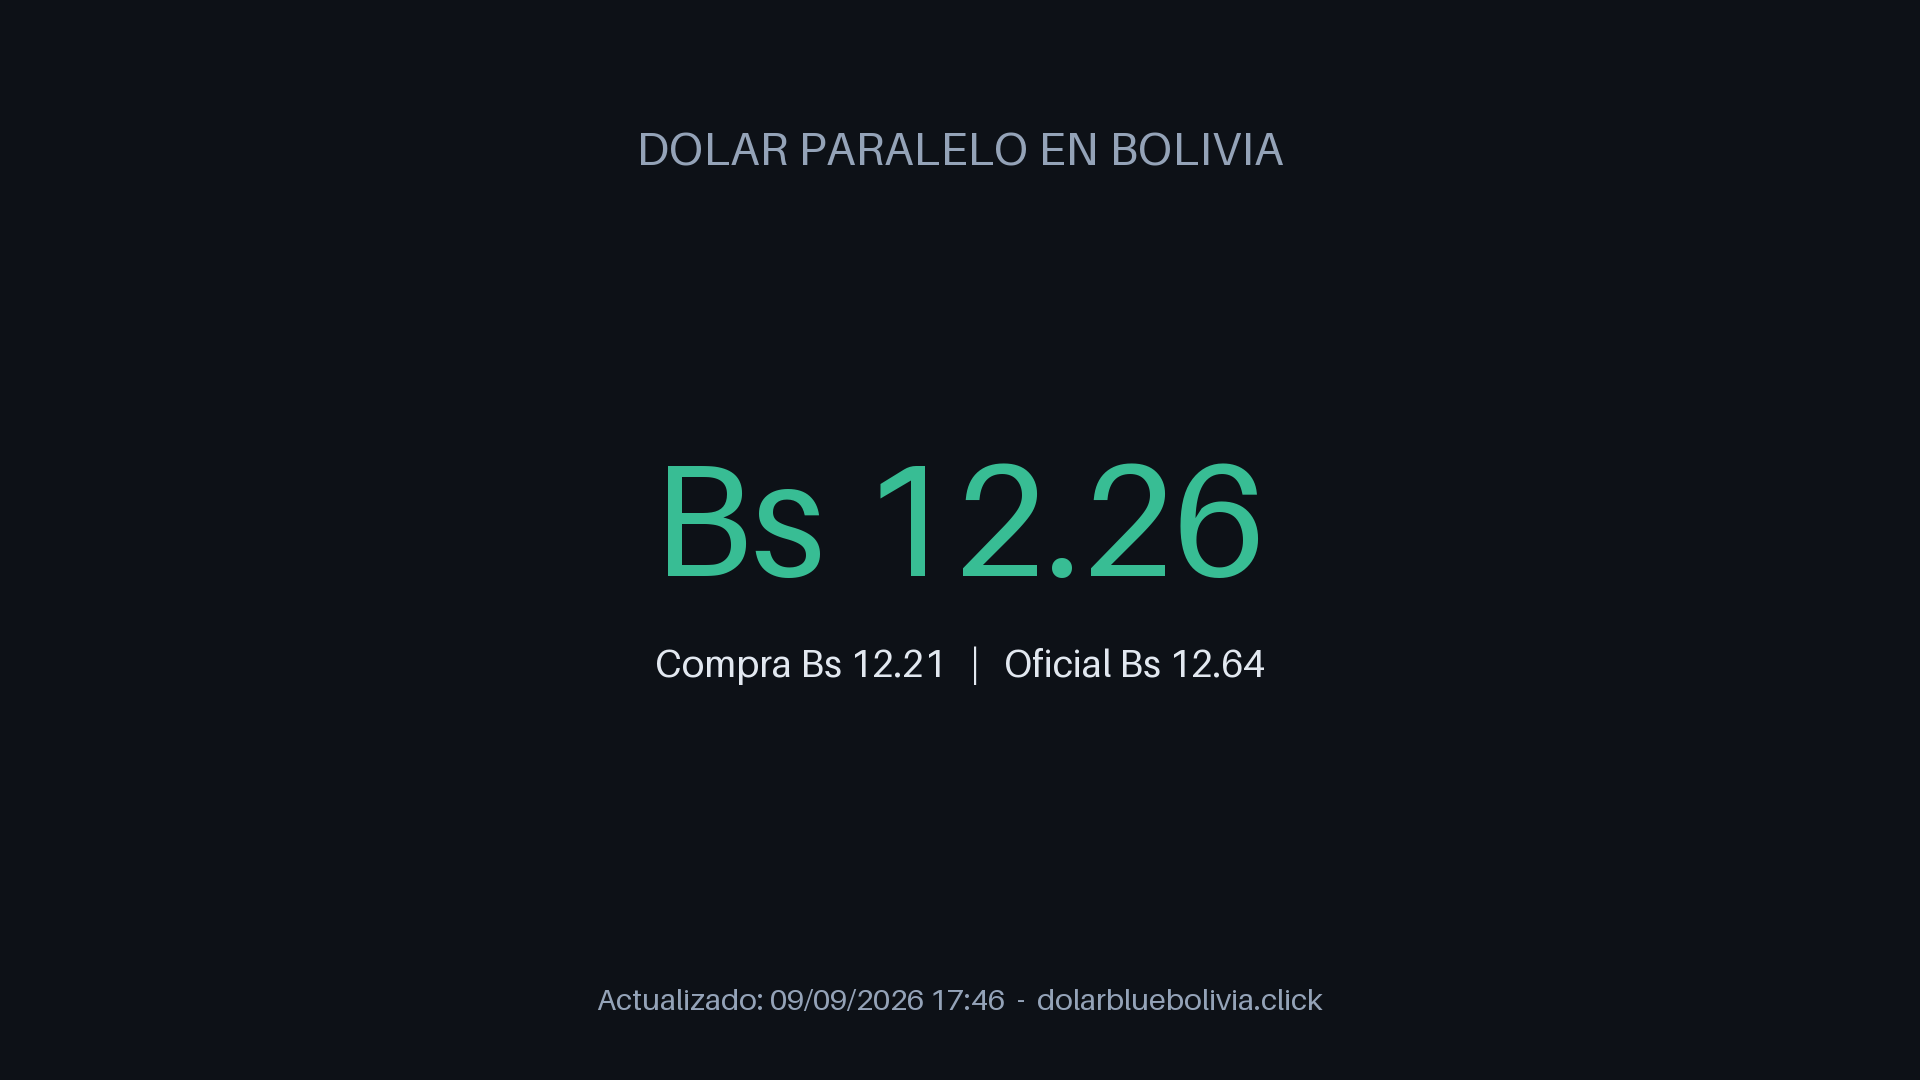
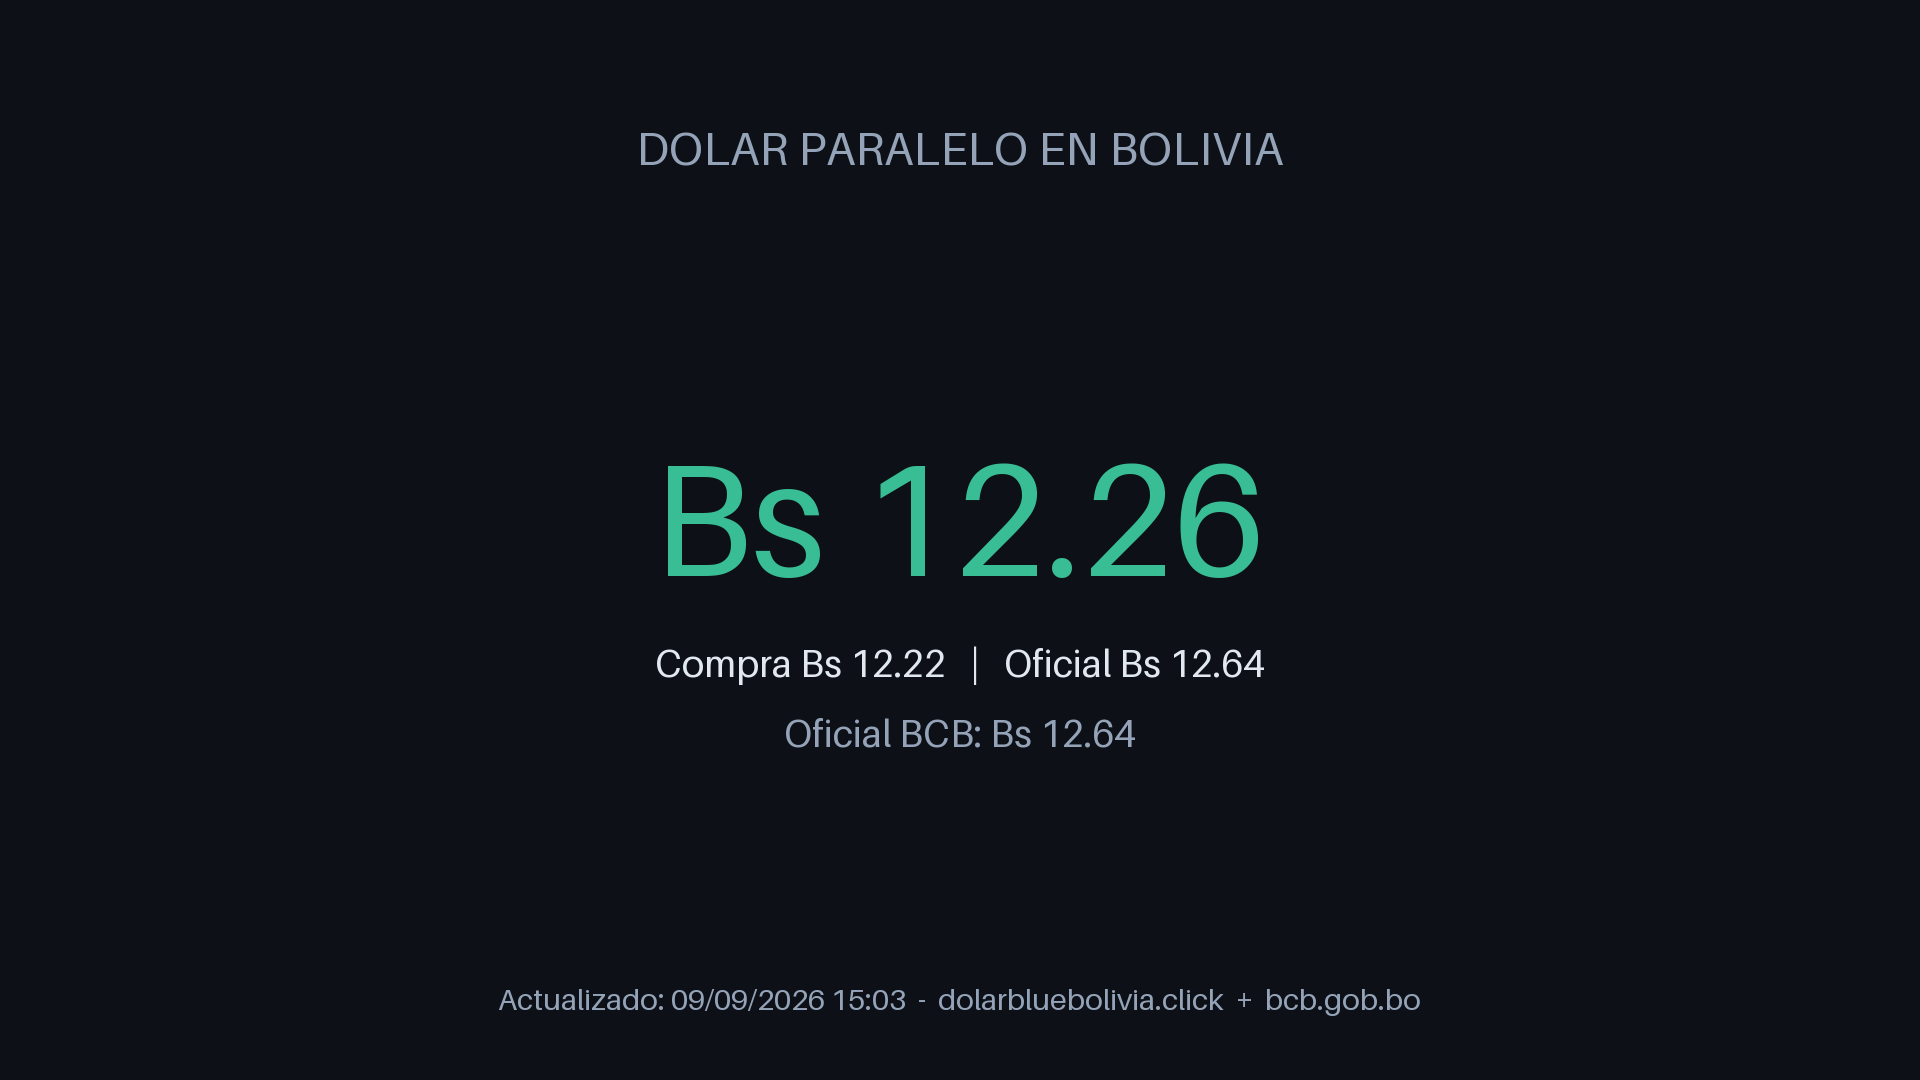
Agrega el BCB como segunda fuente de cotizacion (tipo de cambio oficial + UFV)
- obtener_oficial_bcb() extrae el numero del HTML de bcb.gob.bo (no hay
  endpoint JSON publico); si falla no rompe la corrida, solo se salta.
- Se agrega bcb_oficial a los campos monitoreados para alertas por
  Telegram/correo, y se muestra en el wallpaper generado.
- Se anota el script auxiliar SetWallpaperModern.ps1 (interfaz
  IDesktopWallpaper) usado al depurar por que no se veia el fondo.

Changed region(s): [[0.25, 0.9167, 0.75, 0.9472], [0.4062, 0.6722, 0.5938, 0.7028]]

diff --git a/check_dolar.py b/check_dolar.py
@@ -1,15 +1,23 @@
 """
-Revisa la cotizacion del dolar en dolarbluebolivia.click y avisa por Telegram
-y/o correo cuando cambia. Tambien genera una imagen (wallpaper/current.png)
-con el precio actual para usar como fondo de pantalla.
+Revisa la cotizacion del dolar en dos fuentes independientes y avisa por
+Telegram y/o correo cuando cambia. Tambien genera una imagen
+(wallpaper/current.png) con el precio actual para usar como fondo de
+pantalla.
 
-Fuente de datos: https://www.dolarbluebolivia.click/tasas.json
-Este es el endpoint publico de PRIMERA MANO que la propia pagina usa para
-refrescar los precios en el navegador (mismo origen, permitido por su
-robots.txt). NO se llama directamente a su API interna
-(api.dolarbluebolivia.click) porque el propio codigo de la pagina explica
-que hacerlo desde muchos clientes tumbo ese servicio una vez; /tasas.json
-sirve exactamente los mismos datos sin ese riesgo.
+Fuentes de datos:
+  1. https://www.dolarbluebolivia.click/tasas.json
+     Endpoint publico de PRIMERA MANO que la propia pagina usa para
+     refrescar los precios en el navegador (mismo origen, permitido por su
+     robots.txt). NO se llama directamente a su API interna
+     (api.dolarbluebolivia.click) porque el propio codigo de la pagina
+     explica que hacerlo desde muchos clientes tumbo ese servicio una vez;
+     /tasas.json sirve exactamente los mismos datos sin ese riesgo.
+  2. https://www.bcb.gob.bo/  (Banco Central de Bolivia)
+     Fuente oficial/regulatoria. El BCB no publica un endpoint JSON para
+     esto, asi que se lee el numero directamente del HTML de su portada
+     (bloque "Tipo de cambio oficial", clase bcb-tco-num), que es texto
+     plano generado por su CMS (Drupal), no requiere JavaScript. Tambien
+     se aprovecha para leer el UFV del mismo bloque de cotizaciones.
 
 Variables de entorno (todas opcionales; si faltan, ese canal se salta):
   TELEGRAM_BOT_TOKEN, TELEGRAM_CHAT_ID   -> aviso por Telegram
@@ -18,6 +26,7 @@ Variables de entorno (todas opcionales; si faltan, ese canal se salta):
 
 import json
 import os
+import re
 import smtplib
 import sys
 from datetime import datetime, timezone
@@ -27,6 +36,7 @@ from pathlib import Path
 import requests
 
 TASAS_URL = "https://www.dolarbluebolivia.click/tasas.json"
+BCB_URL = "https://www.bcb.gob.bo/"
 STATE_FILE = Path(__file__).parent / "data" / "last_rates.json"
 WALLPAPER_FILE = Path(__file__).parent / "wallpaper" / "current.png"
 
@@ -49,6 +59,52 @@ def obtener_tasas():
     }
 
 
+def _numero_bcb(texto):
+    """Convierte '12,64' o '3.344,40' (formato boliviano) a float."""
+    return float(texto.strip().replace(".", "").replace(",", "."))
+
+
+def _buscar_valor(html, ancla, patron, ventana=2000):
+    idx = html.find(ancla)
+    if idx == -1:
+        return None
+    m = re.search(patron, html[idx:idx + ventana])
+    return m.group(1) if m else None
+
+
+def obtener_oficial_bcb():
+    """
+    Lee el tipo de cambio oficial (y el UFV) directamente de la portada del
+    Banco Central de Bolivia. Si el BCB cambia su HTML o no responde, no se
+    rompe la corrida completa: se devuelve None y el resto sigue con la
+    otra fuente.
+    """
+    try:
+        resp = requests.get(BCB_URL, headers=HEADERS, timeout=20)
+        resp.raise_for_status()
+        html = resp.text
+
+        # Busqueda directa (no por cercania a una clase CSS): "is-tc-oficial"
+        # tambien aparece antes en el <style> del propio HTML, asi que
+        # buscar por proximidad a esa clase da falsos negativos. El span
+        # bcb-tco-num">...</span> solo existe una vez, en el HTML real.
+        m = re.search(r'bcb-tco-num">\s*([\d.,]+)\s*<', html)
+        oficial_txt = m.group(1) if m else None
+        ufv_txt = _buscar_valor(html, '>UFV<', r'bcb-quote-value">\s*([\d.,]+)\s*<')
+
+        if not oficial_txt:
+            print("[bcb] no se encontro el tipo de cambio oficial en el HTML", file=sys.stderr)
+            return None
+
+        datos = {"bcb_oficial": _numero_bcb(oficial_txt)}
+        if ufv_txt:
+            datos["bcb_ufv"] = _numero_bcb(ufv_txt)
+        return datos
+    except Exception as exc:  # noqa: BLE001 - no queremos tumbar la corrida por esto
+        print(f"[bcb] error al consultar {BCB_URL}: {exc}", file=sys.stderr)
+        return None
+
+
 def cargar_estado_anterior():
     if STATE_FILE.exists():
         return json.loads(STATE_FILE.read_text(encoding="utf-8"))
@@ -60,30 +116,35 @@ def guardar_estado(tasas):
     STATE_FILE.write_text(json.dumps(tasas, indent=2, ensure_ascii=False), encoding="utf-8")
 
 
+CAMPOS_MONITOREADOS = {
+    "blue_compra": "Blue - Compra",
+    "blue_venta": "Blue - Venta",
+    "oficial_compra": "Oficial (dolarbluebolivia) - Compra",
+    "oficial_venta": "Oficial (dolarbluebolivia) - Venta",
+    "bcb_oficial": "Oficial BCB",
+}
+
+
 def cambio(anterior, actual, campo):
     if anterior is None:
         return None
-    if anterior[campo] == actual[campo]:
+    antes = anterior.get(campo)
+    ahora = actual.get(campo)
+    if antes is None or ahora is None or antes == ahora:
         return None
-    return anterior[campo], actual[campo]
+    return antes, ahora
 
 
 def construir_mensaje(anterior, actual):
-    campos = {
-        "blue_compra": "Blue - Compra",
-        "blue_venta": "Blue - Venta",
-        "oficial_compra": "Oficial - Compra",
-        "oficial_venta": "Oficial - Venta",
-    }
     lineas = ["Cambio en la cotizacion del dolar en Bolivia:"]
-    for campo, etiqueta in campos.items():
+    for campo, etiqueta in CAMPOS_MONITOREADOS.items():
         diff = cambio(anterior, actual, campo)
         if diff:
             antes, ahora = diff
             flecha = "subio" if ahora > antes else "bajo"
             lineas.append(f"- {etiqueta}: Bs {antes:.2f} -> Bs {ahora:.2f} ({flecha})")
     lineas.append("")
-    lineas.append("Fuente: https://www.dolarbluebolivia.click/")
+    lineas.append("Fuentes: https://www.dolarbluebolivia.click/  |  https://www.bcb.gob.bo/")
     return "\n".join(lineas)
 
 
@@ -157,8 +218,16 @@ def generar_wallpaper(actual):
     sub = f"Compra Bs {actual['blue_compra']:.2f}   |   Oficial Bs {actual['oficial_venta']:.2f}"
     draw.text((centrar_x(sub, f_label), 640), sub, font=f_label, fill=(226, 232, 240))
 
+    bcb_oficial = actual.get("bcb_oficial")
+    if bcb_oficial is not None:
+        linea_bcb = f"Oficial BCB: Bs {bcb_oficial:.2f}"
+        draw.text((centrar_x(linea_bcb, f_label), 710), linea_bcb, font=f_label, fill=texto_secundario)
+
     hora_local = datetime.now().strftime("%d/%m/%Y %H:%M")
-    pie = f"Actualizado: {hora_local}  -  dolarbluebolivia.click"
+    fuentes = "dolarbluebolivia.click"
+    if bcb_oficial is not None:
+        fuentes += "  +  bcb.gob.bo"
+    pie = f"Actualizado: {hora_local}  -  {fuentes}"
     draw.text((centrar_x(pie, f_pie), alto - 100), pie, font=f_pie, fill=texto_secundario)
 
     WALLPAPER_FILE.parent.mkdir(parents=True, exist_ok=True)
@@ -168,11 +237,15 @@ def generar_wallpaper(actual):
 
 def main():
     actual = obtener_tasas()
+
+    datos_bcb = obtener_oficial_bcb()
+    if datos_bcb:
+        actual.update(datos_bcb)
+
     anterior = cargar_estado_anterior()
 
     hubo_cambio = anterior is not None and any(
-        cambio(anterior, actual, campo)
-        for campo in ("blue_compra", "blue_venta", "oficial_compra", "oficial_venta")
+        cambio(anterior, actual, campo) for campo in CAMPOS_MONITOREADOS
     )
 
     print(f"Cotizacion actual: {actual}")

diff --git a/README.md b/README.md
@@ -1,16 +1,22 @@
 # Actualizador de dólar (Bolivia)
 
-Revisa la cotización del dólar paralelo en [dolarbluebolivia.click](https://www.dolarbluebolivia.click/)
-y avisa por Telegram y correo cuando cambia. También genera una imagen
+Revisa la cotización del dólar en dos fuentes independientes —
+[dolarbluebolivia.click](https://www.dolarbluebolivia.click/) (paralelo/blue)
+y el [Banco Central de Bolivia](https://www.bcb.gob.bo/) (oficial) — y avisa
+por Telegram y correo cuando cambia alguna. También genera una imagen
 (`wallpaper/current.png`) con el precio actual para usar como fondo de
 pantalla en Windows.
 
 ## Cómo funciona
 
 - `check_dolar.py` lee `https://www.dolarbluebolivia.click/tasas.json` (el
-  endpoint propio del sitio, permitido por su `robots.txt`), compara contra
-  el último valor guardado en `data/last_rates.json` y, si cambió, manda los
-  avisos.
+  endpoint propio del sitio, permitido por su `robots.txt`) y además lee el
+  tipo de cambio oficial directamente de la portada de `bcb.gob.bo` (el BCB
+  no tiene un endpoint JSON público, así que se extrae del HTML). Compara
+  ambas fuentes contra el último valor guardado en `data/last_rates.json` y,
+  si algo cambió, manda los avisos. Si el BCB falla o cambia su HTML, esa
+  fuente se salta sin romper la corrida (sigue funcionando solo con
+  dolarbluebolivia.click).
 - `.github/workflows/check-dolar.yml` ejecuta ese script cada 20 minutos en
   GitHub Actions (gratis) y guarda el resultado en el repo.
 - `scripts/set_wallpaper.ps1` (en tu PC) descarga la última imagen generada
